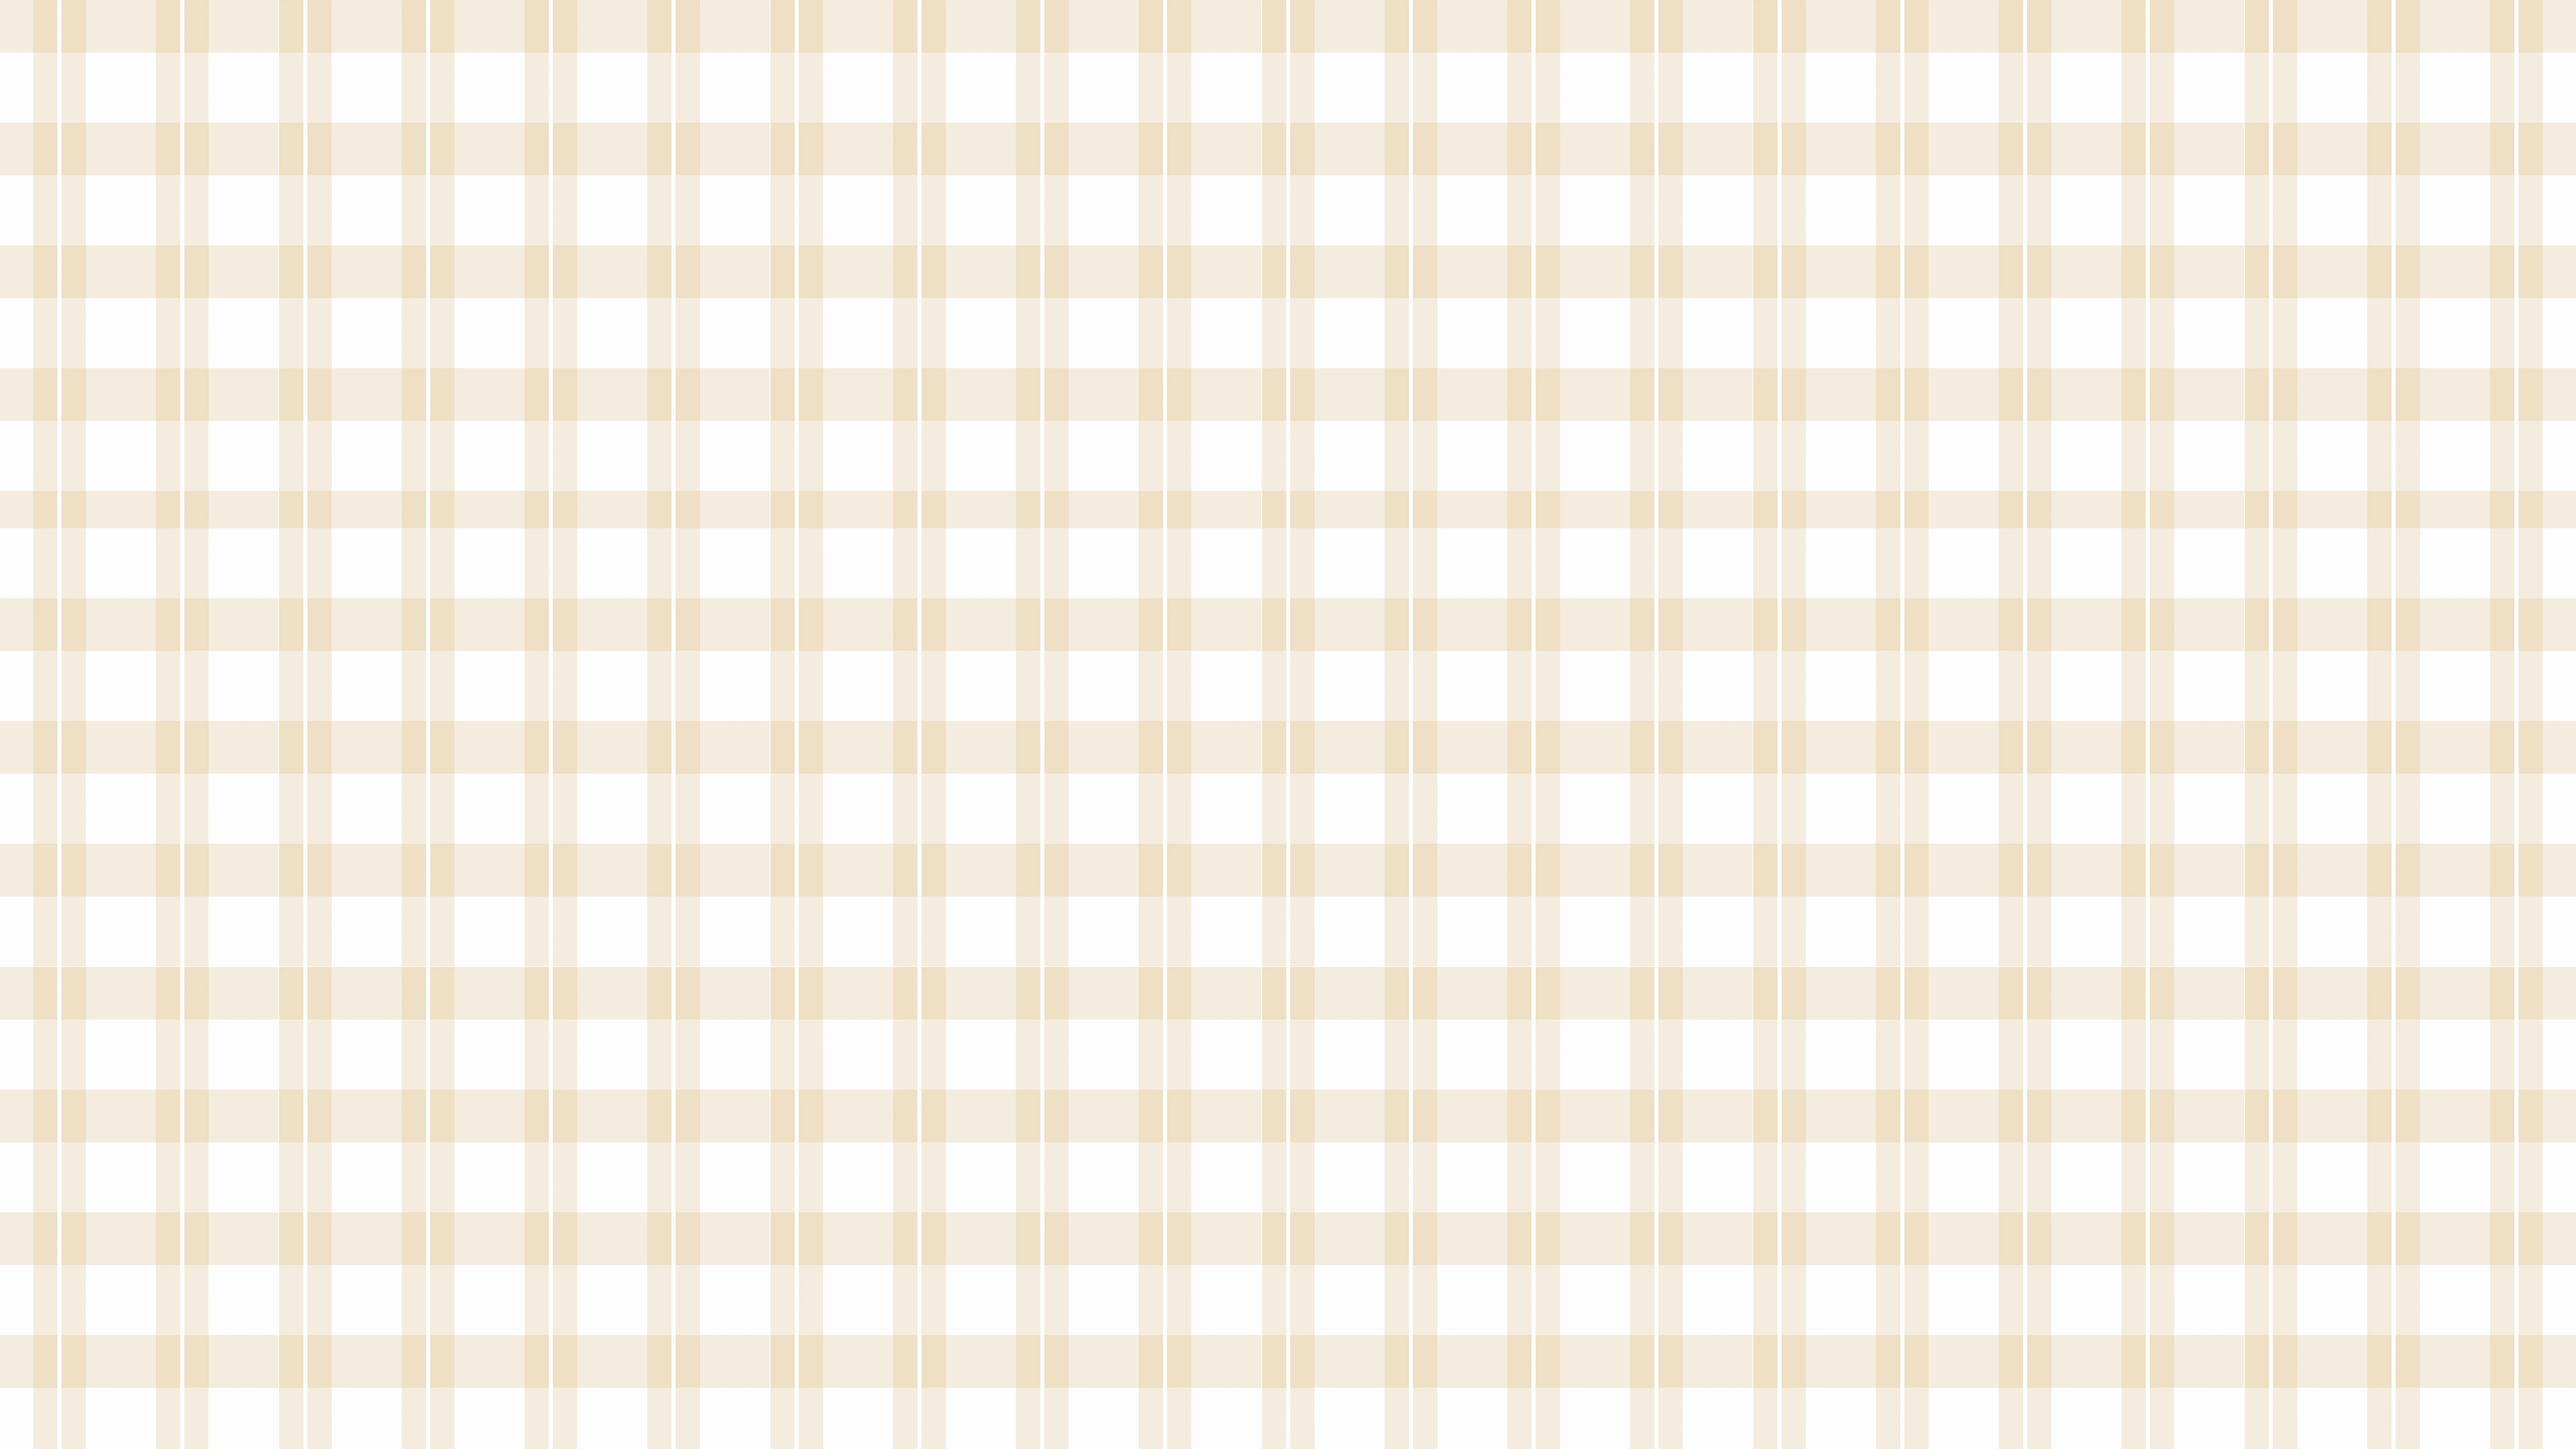
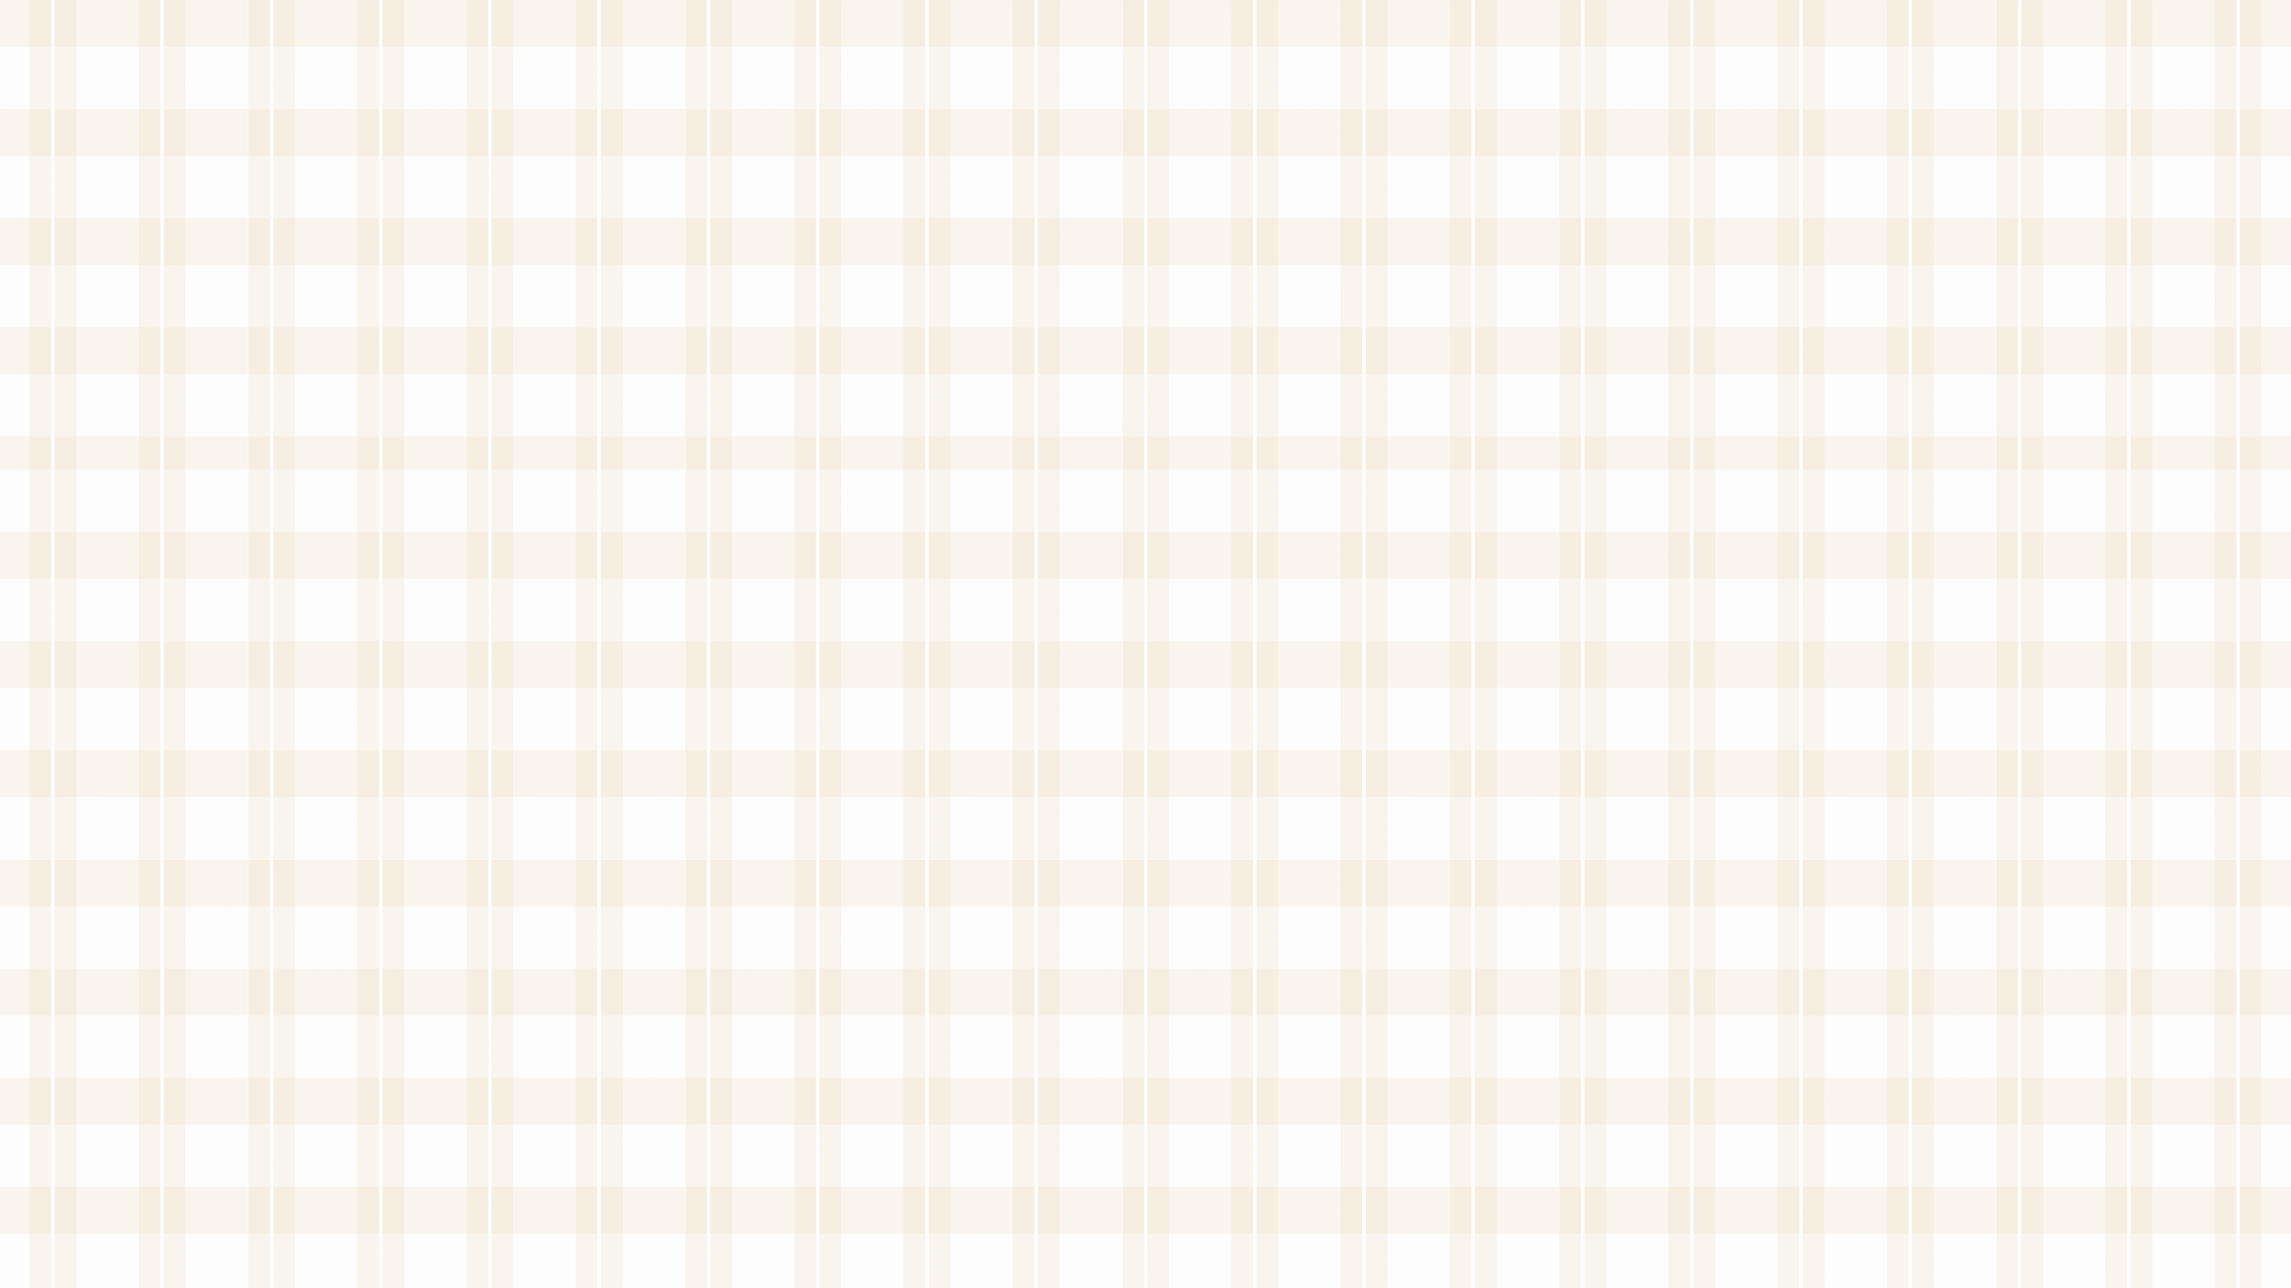
imagens

diff --git a/pagLogin/login.php b/pagLogin/login.php
@@ -131,7 +131,7 @@ if(isset($_POST['email']) || isset($_POST['senha'])) {
 
     h1 {
         font-family: 'Crimson Pro', Georgia, serif;
-        font-size: 26px;
+        font-size: 25.3px;
         color: #8c2d19; 
         text-align: center;
         font-weight: 600;
@@ -163,7 +163,7 @@ if(isset($_POST['email']) || isset($_POST['senha'])) {
 
     .img2 {
         display: block;
-        width: 56px;
+        width: 80px;
         height: 80px;
     }
 
